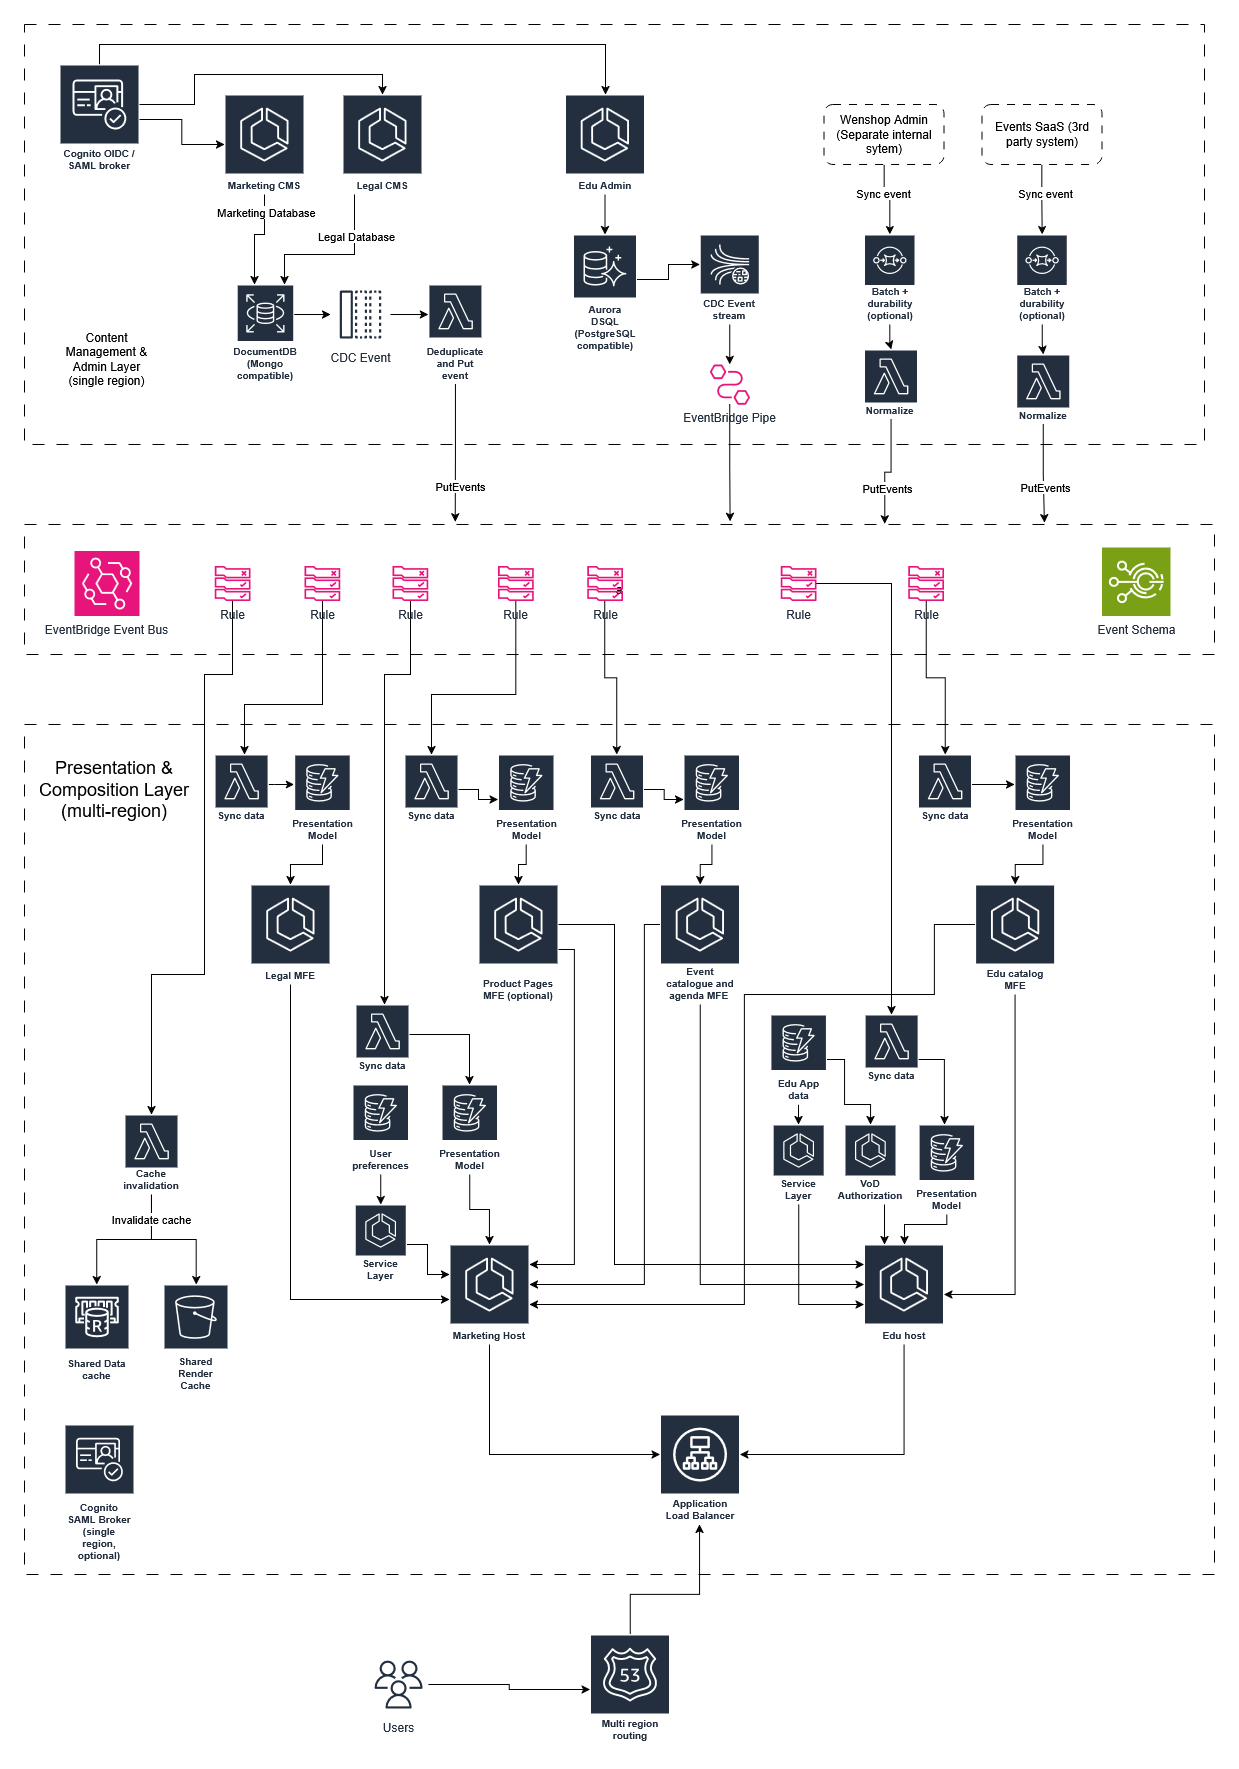
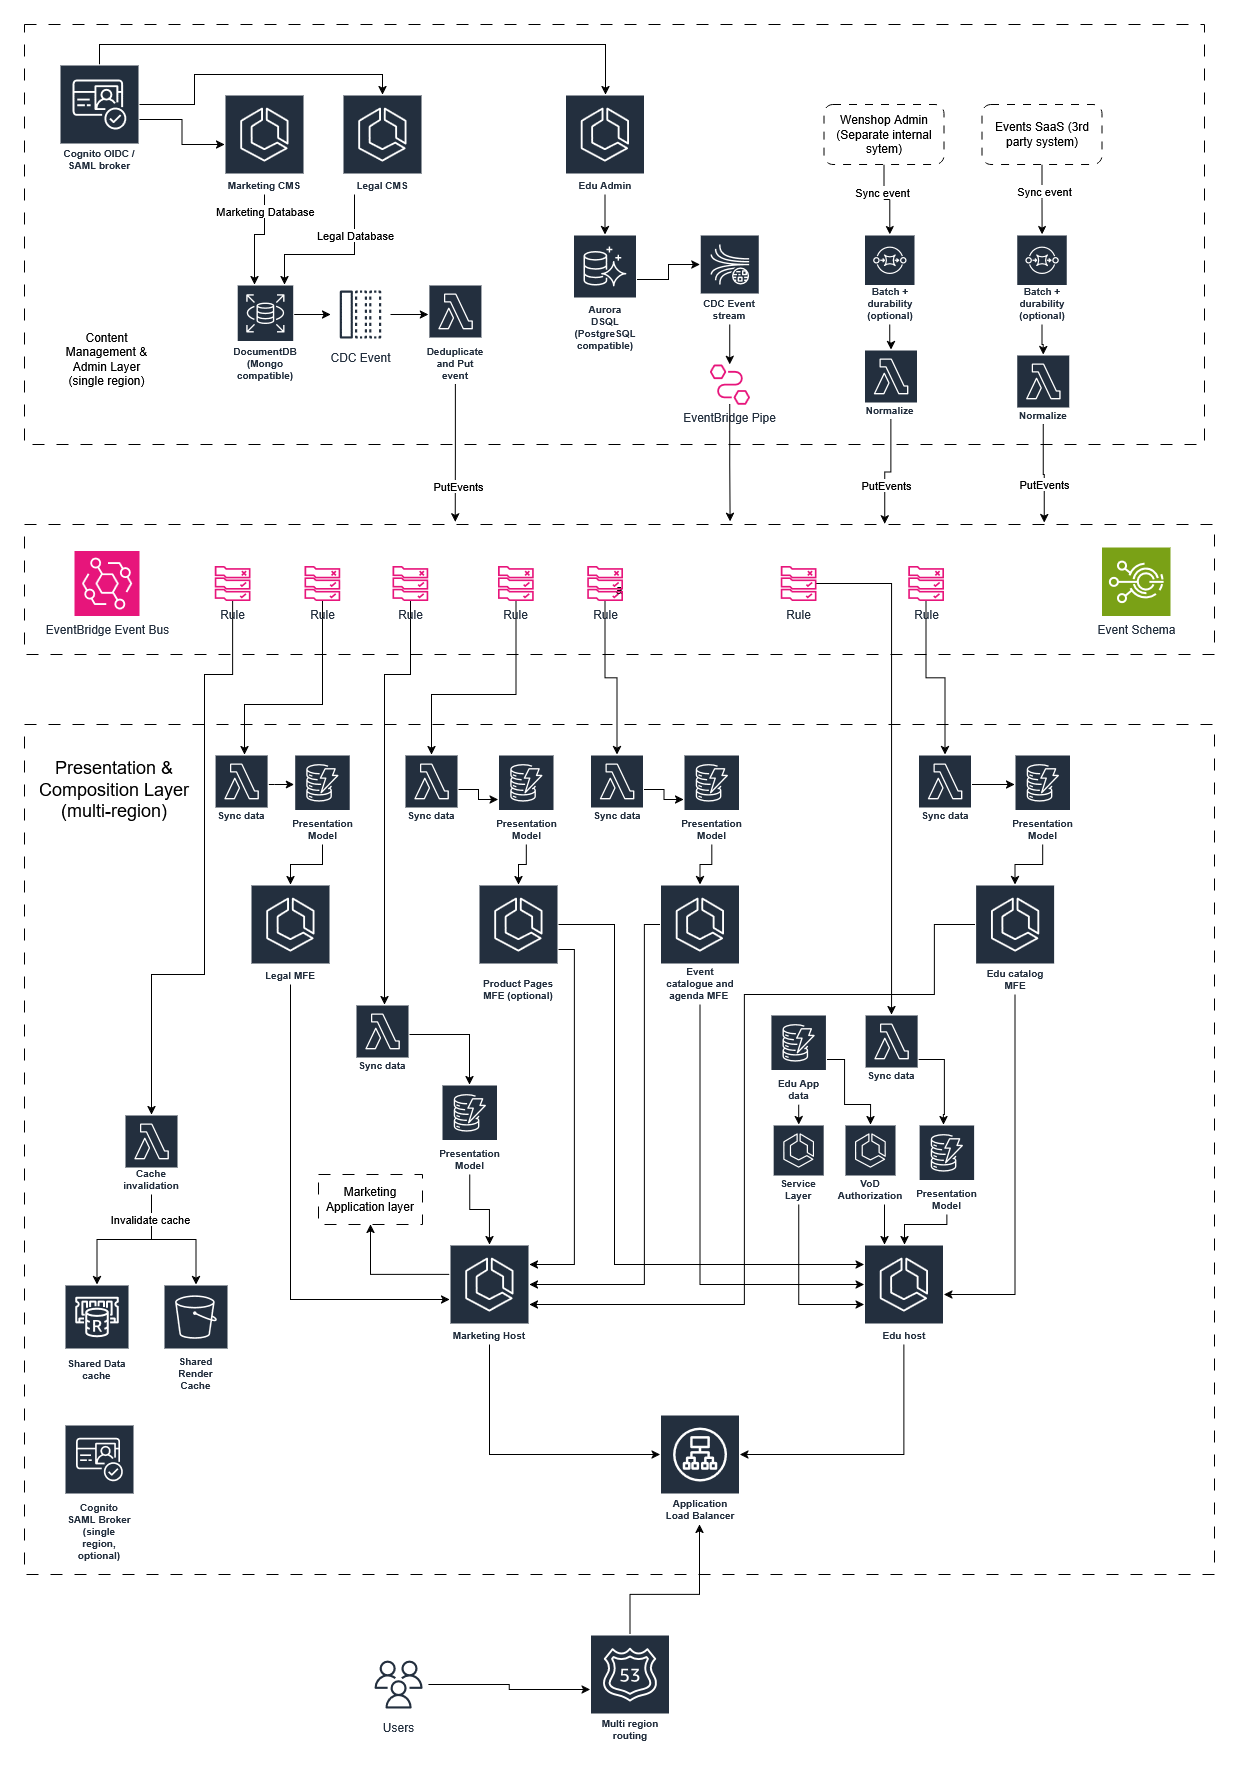
app layer update

diff --git a/docs/dxp-architecture.md b/docs/dxp-architecture.md
@@ -1,7 +1,7 @@
 # Composable distributed DXP (Digital Experience Platform): Enterprise Architecture Case Study  
 
 Created by: Tamas Horvath  
-Last updated: 2026-06-02
+Last updated: 2026-06-03
 
 ## Executive Summary
 
@@ -28,10 +28,11 @@ The architecture described in this document is **pattern-driven**. The business 
 
 | Pattern | Example Domain | Description |
 |---|---|---|
-| **Large Host Application** | Marketing, Education | A full host app with its own design system, shell, and Micro-frontend (MFE) composition surface. Two instances show that the same architecture supports multiple distinct products. |
+| **Large Host Application** | Marketing, Education | A full host app with its own design system, shell, Micro-frontend (MFE) composition surface. Two instances show that the same architecture supports multiple distinct products. |
 | **Small Domain Micro-frontend (MFE)** | Legal | A focused content domain with no dedicated host. Content is exposed as MFEs integrated into an existing host app. |
 | **In-House External System** | Webshop | A separately owned and deployed internal system. This architecture consumes its data read-only. |
-| **Third-Party Read-Only Integration** | Events SaaS | An external SaaS platform. Data is ingested via webhook or polling, normalised, and fed into the internal event pipeline. No write-back. |
+| **Third-Party Read-only Integration** | Events SaaS | An external SaaS platform. Data is ingested via webhook or polling, normalised, and fed into the internal event pipeline. No write-back. |
+| **Third-Party Write-back Integration** | Marketing | Marketing host's application layer writes to external Campaign manager or CRM. See Chapter 7 |
 | **Cross-App Thin Coupling** | Webshop cart icon | A lightweight synchronous data dependency between two separate applications. |
 
 ### Domain Summary
@@ -71,7 +72,7 @@ The architecture described in this document is **pattern-driven**. The business 
 
 ### Large Host Applications (Marketing, Education)
 
-Marketing and Education are two large, distinct applications. They share the same underlying architecture — the same MFE framework, service layer (BFF pattern), caching strategy, and event pipeline — but are independently deployed with separate design systems, React singleton contexts, and host shells. They are not the same app with different content, they are two separate products that are built on the same platform.
+Marketing and Education are two large, distinct applications. They share the same underlying architectural patterns: MFE, service layer (BFF or dedicated microservice pattern), caching strategy, and event pipeline — but are independently deployed with separate application layer, design systems, React singleton contexts, and host shells. They are not the same app with different content, they are two separate products that are built on the same platform.
 
 The two hosts may be connected by integration: for example, the Marketing host using Edu content or a training recommendation component can be surfaced either via Data sharing (EventBridge Bus) or MFEs via application-level Module Federation. This demonstrates that composition can cross host boundaries without requiring shared deployment or a monolithic shell.
 
@@ -83,9 +84,9 @@ Legal is a focused content domain that does not require its own host application
 
 The Webshop is an internally owned but separately deployed system with its own architecture, team, and deployment lifecycle. This architecture treats it as a read-only data source: product data (titles, descriptions, images, pricing) is consumed for recommendation widgets. Cart state is consumed for the cart icon. No checkout or cart management is implemented here, any transactional action is a redirect to the Webshop's own frontend.
 
-### Third-Party Read-Only Integration (Events SaaS)
+### Third-Party Integration (Events SaaS)
 
-The Events SaaS is an external platform that manages the full event lifecycle. This architecture ingests event catalogue and agenda data one-way — via webhook (push) or periodic API polling (pull) — normalises it into the internal schema, and feeds it into the event pipeline similarly as first-party content. No write operations are performed against the SaaS platform. Any user action (registration, RSVP) is a redirect to the SaaS platform's own frontend.
+The Events SaaS is an external platform that manages the full event lifecycle. This architecture ingests event catalogue and agenda data one-way — via webhook (push) or periodic API polling (pull) — normalises it into the internal schema, and feeds it into the event pipeline similarly as first-party content. If write-back (e.g. RSVP) required, Chapter 7 (Application layer) discusses the use-case.
 
 
 ## 3. The Composable DXP in Context
@@ -425,24 +426,15 @@ The architecture discussed two primary areas of focus so far:
 Beyond these, host applications may require their own **service capabilities** — business logic, user state, and interaction handling that does not originate from an admin panel and is not about delivering centrally authored content.
 
 These service capabilities can be served by
-- separate microservice tier in complex cases
-- service layer added to the host MFEs (e.g. Marketing, Edu)
+- service layer (as BFF) added to the host MFEs (e.g. Marketing, Edu) for simpler use-cases
+- separate microservice tier for operations that need independent scaling, cross-MFE scope, or complex orchestration
 
-| Domain | Service capabilities |
-|---|---|
-| Marketing | User preferences (language, theme), saved/favourited items |
-| Education | Lesson, module and course completions, Q&A enrolment state, progress aggregation |
+| Domain | Capabilities | Application layer | 
+|---|---|---|
+| Marketing | User preferences, Contact forms, CRM, marketing automation, interfacing with campaign management systems | Microservice tier with dedicated EventBridge Bus |
+| Education | Lesson, module and course completions, Q&A enrolment state, progress aggregation | Service layer implemented in BFF + independently scaleable VoD authorization microservice | 
 
-These are not complex capabilities, therefore the service layer approach is sufficient. The BFF deployable as part of each host application is a natural service layer. Integrates well with Modern.js (RPC style functions), extensible, REST-based under the hood, and capable of handling structured business logic.
- 
-### Storage
- 
-DynamoDB is appropriate for both domains (Marketing, Edu). Application state separation from the read model and service level separation are both crucial to separate concerns and provide service autonomy on the data level.
 
-Writes originate from the user's nearest regional server, therefore Global Tables are justified for low latency writes. Global table replication ensures a write landing in one region is available to all regions for subsequent requests.
- 
-Eventual consistency and Last Write Wins (LWW) conflict resolution are acceptable. A user switching regions between concurrent writes on the same record is not a realistic scenario.
- 
 ### Service Layer 
  
 **Modeern.js BFF endpoints** are the right fit for structured service operations with auth (JWT signature validation), input validation, business logic and structured error handling. Hono is a micro-framework that can be deployed as a server or as serverless (AWS Lambda) functions depending on non-functional requirements.
@@ -455,13 +447,52 @@ Example Education service endpoints:
  
 All service endpoints must validate the user's JWT before performing any read or write involving user-specific or private data.
  
+### Application EventBridge Bus
+ 
+User interactions that trigger complex business logic (multiple microservices concerned) or write to external systems follow a different pattern from from simple internal state changes. 
+The BFF handles the request, validates the user, performs any necessary local write (e.g. storing the submission), then **publishes a business event to a dedicated Application EventBridge Bus** (se.g. Marketing Event bus or Edu event bus).
+ 
+```mermaid
+flowchart TD
+    A((User action))  --> B[Validation in BFF]
+    B --> C{Is there complex Business Logic}
+    C -->|No| D[Process in BFF, local write if needed]
+    C -->|Yes| E0[PutEvent to Application EventBridge Bus]
+    E0 --> E[Application EventBridge Bus]
+    E -->|One step Businnes logic| F[Lambda handler, e.g. CRM or Campaign integration]
+    E -->|Multi-step durable workflow| G[Step function state-machine]
+    E -->|Complex multi-service Businnes logic| H[Microservices]
+```
+ 
+The Application Bus carries business events: `ContactFormSubmitted`, `CourseCompleted`, `UserSubscribed`, `EventRegistrationRequested`. Each event routes to the relevant consumer independently. The BFF publishes the event and returns. Downstream integration is decoupled from the user's request lifecycle.
+ 
+**Lambda** consumer can handle simple business logic or writing to external services e.g. CRM. 
+**Step Functions** are appropriate for multi-step or long-running workflows, e.g. a lead nurturing sequence triggered by a contact form, an onboarding flow after course enrolment, a certification issuance process. Step Functions provide built-in retry, error handling, and state management without custom orchestration code.
+**Microservice tier:** if a specific integration domain grows complex enough to require independent deployment and scaling, it deploys as a standalone service subscribing to the Application Bus. The BFF does not change, it continues publishing events, and the new service becomes an additional consumer.
+ 
+The distributed microservice pattern is established by the Application EventBridge Bus but this document does not design a microservice tier, because it is highly application specific and does not relevant to understand this architecture.
+ 
+### Storage
+ 
+DynamoDB is appropriate for both domains (Marketing, Edu). Application state separation from the read model and service level separation are both crucial to separate concerns and provide service autonomy on the data level.
+
+Writes originate from the user's nearest regional server, therefore Global Tables are justified for low latency writes. Global table replication ensures a write landing in one region is available to all regions for subsequent requests.
+ 
+Eventual consistency and Last Write Wins (LWW) conflict resolution are acceptable. A user switching regions between concurrent writes on the same record is not a realistic scenario.
+ 
+
 ### Presentation and Caching
  
 User state is read via Data Loaders or Server Components using the same patterns as content. On write, the service handler invalidates the relevant Redis key using the same `customKey` scheme. Low frequency and highly dynamic data reads should directly query DinamoDB, cache is not justified.
 
-## 8 Integration Topology (high level)
+## 8. Integration Topology (high level)
 
 ![High-level integration topology](/docs/resources/integration-topology.png)
+
+### Application Layer
+
+![High-level integration topology](/docs/resources/application-layer.png)
+
 
 ## 9. Search and AI Assistance
  
@@ -650,8 +681,8 @@ For the CDC event pipeline details see Chapter 4. For Read Model Generation deta
 
 ### Trace Backends
 
--**AWS X-Ray** as a native AWS integration, simple setup, good for service maps.
--**Grafana Tempo + Prometheus or others** if the team preferes alternatives. 
+- **AWS X-Ray** as a native AWS integration, simple setup, good for service maps.
+- **Grafana Tempo + Prometheus or others** if the team preferes alternatives. 
 
 X-Ray is the lowest-friction starting point in an AWS-native stack, migrating later is low-cost given ADOT's vendor neutrality.
 